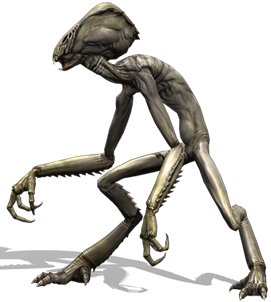
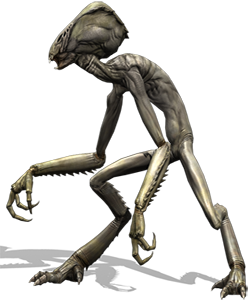
move enemy

diff --git a/enemy.py b/enemy.py
@@ -3,6 +3,26 @@ from pygame.locals import *
 
 class Enemy(object):
 
-	def __init__(self):
+	def __init__(self, surface):
 		self.alien_type = 1
 		self.alien = pygame.image.load("res/alien" + str(self.alien_type) + ".png")
+		self.surface = surface
+		self.alien_posx = 1300
+		self.alien_posy = 320
+
+	def render(self):
+		self.surface.blit(self.alien, (self.alien_posx, self.alien_posy))
+
+	def move(self):
+		self.alien_posx -= 5
+
+	def update(self):
+		self.move()
+		if self.check_alien() == True:
+			self.alien_posx = 1300
+
+	def check_alien(self):
+		if self.alien_posx <= -300:
+			return True
+		else:
+			return False

diff --git a/GameScreen.py b/GameScreen.py
@@ -2,6 +2,7 @@ import pygame
 from pygame.locals import *
 
 from Player import Player
+from enemy import Enemy
 
 class GameScreen(object):
 
@@ -27,6 +28,7 @@ class GameScreen(object):
 		pygame.display.set_caption(self.title)
 		self.font = pygame.font.SysFont("monospace", 20)
 		self.player = Player(self.surface)
+		self.enemy = Enemy(self.surface)
 
 	def terminate(self):
 		self.quit_game = True
@@ -42,6 +44,8 @@ class GameScreen(object):
 				self.player.render()
 				self.player.update()
 				self.score_Show()
+				self.enemy.render()
+				self.enemy.update()
 
 			pygame.display.update()
 			self.clock.tick(self.fps)

diff --git a/Bullet.py b/Bullet.py
@@ -13,7 +13,7 @@ class Bullet(object):
 		self.surface.blit(self.bullet, (self.bullet_posx, self.bullet_posy))
 
 	def move(self):
-		self.bullet_posx += 20
+		self.bullet_posx += 50
 
 	def check_bullet(self):
 		if self.bullet_posx >= 1280:
